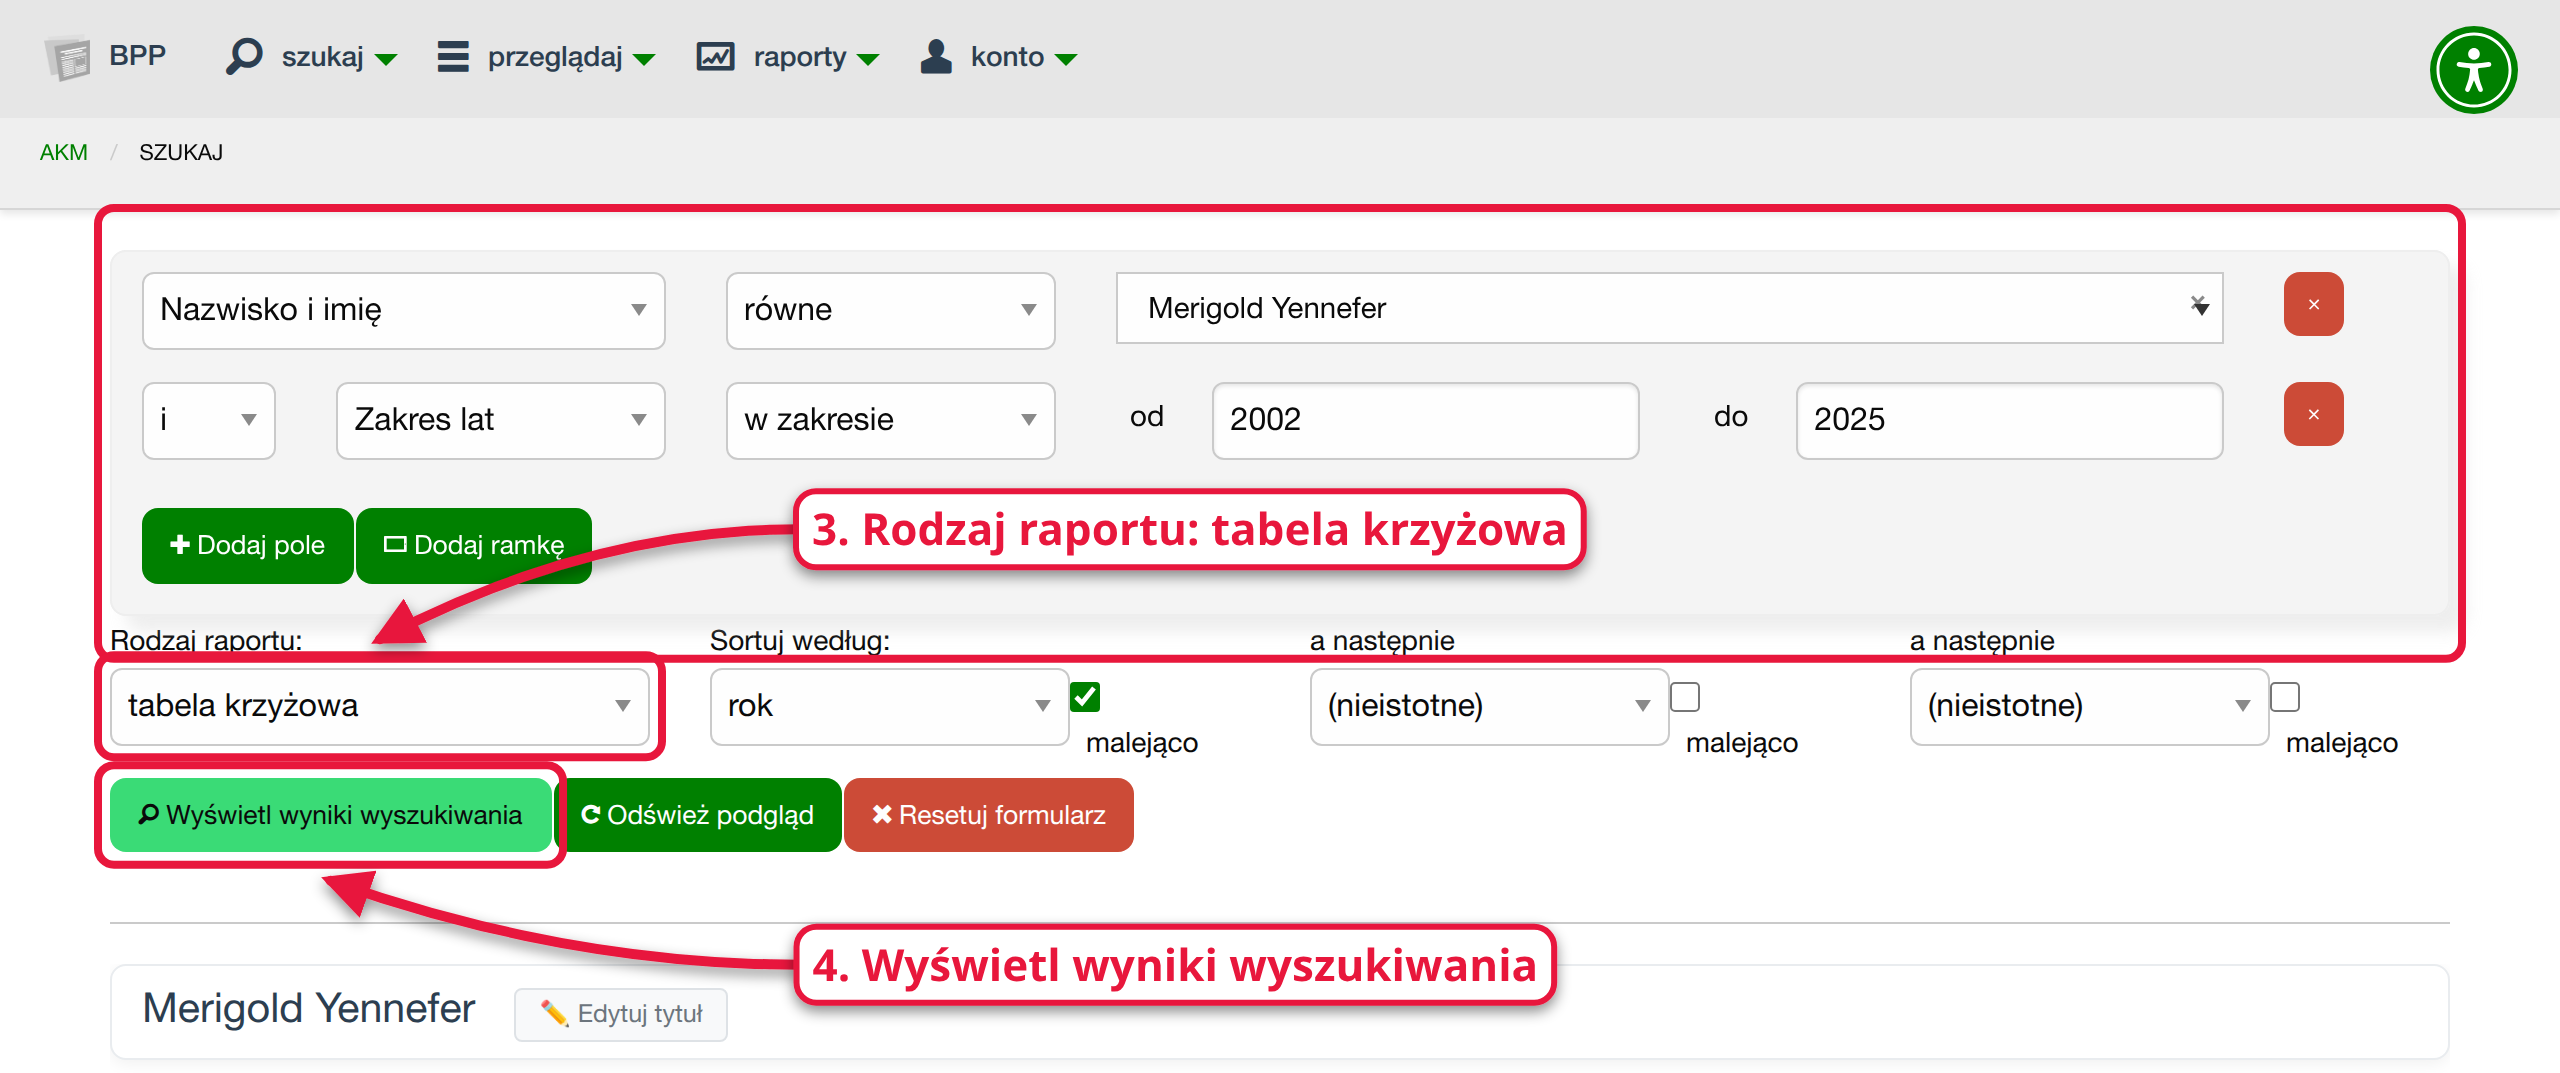
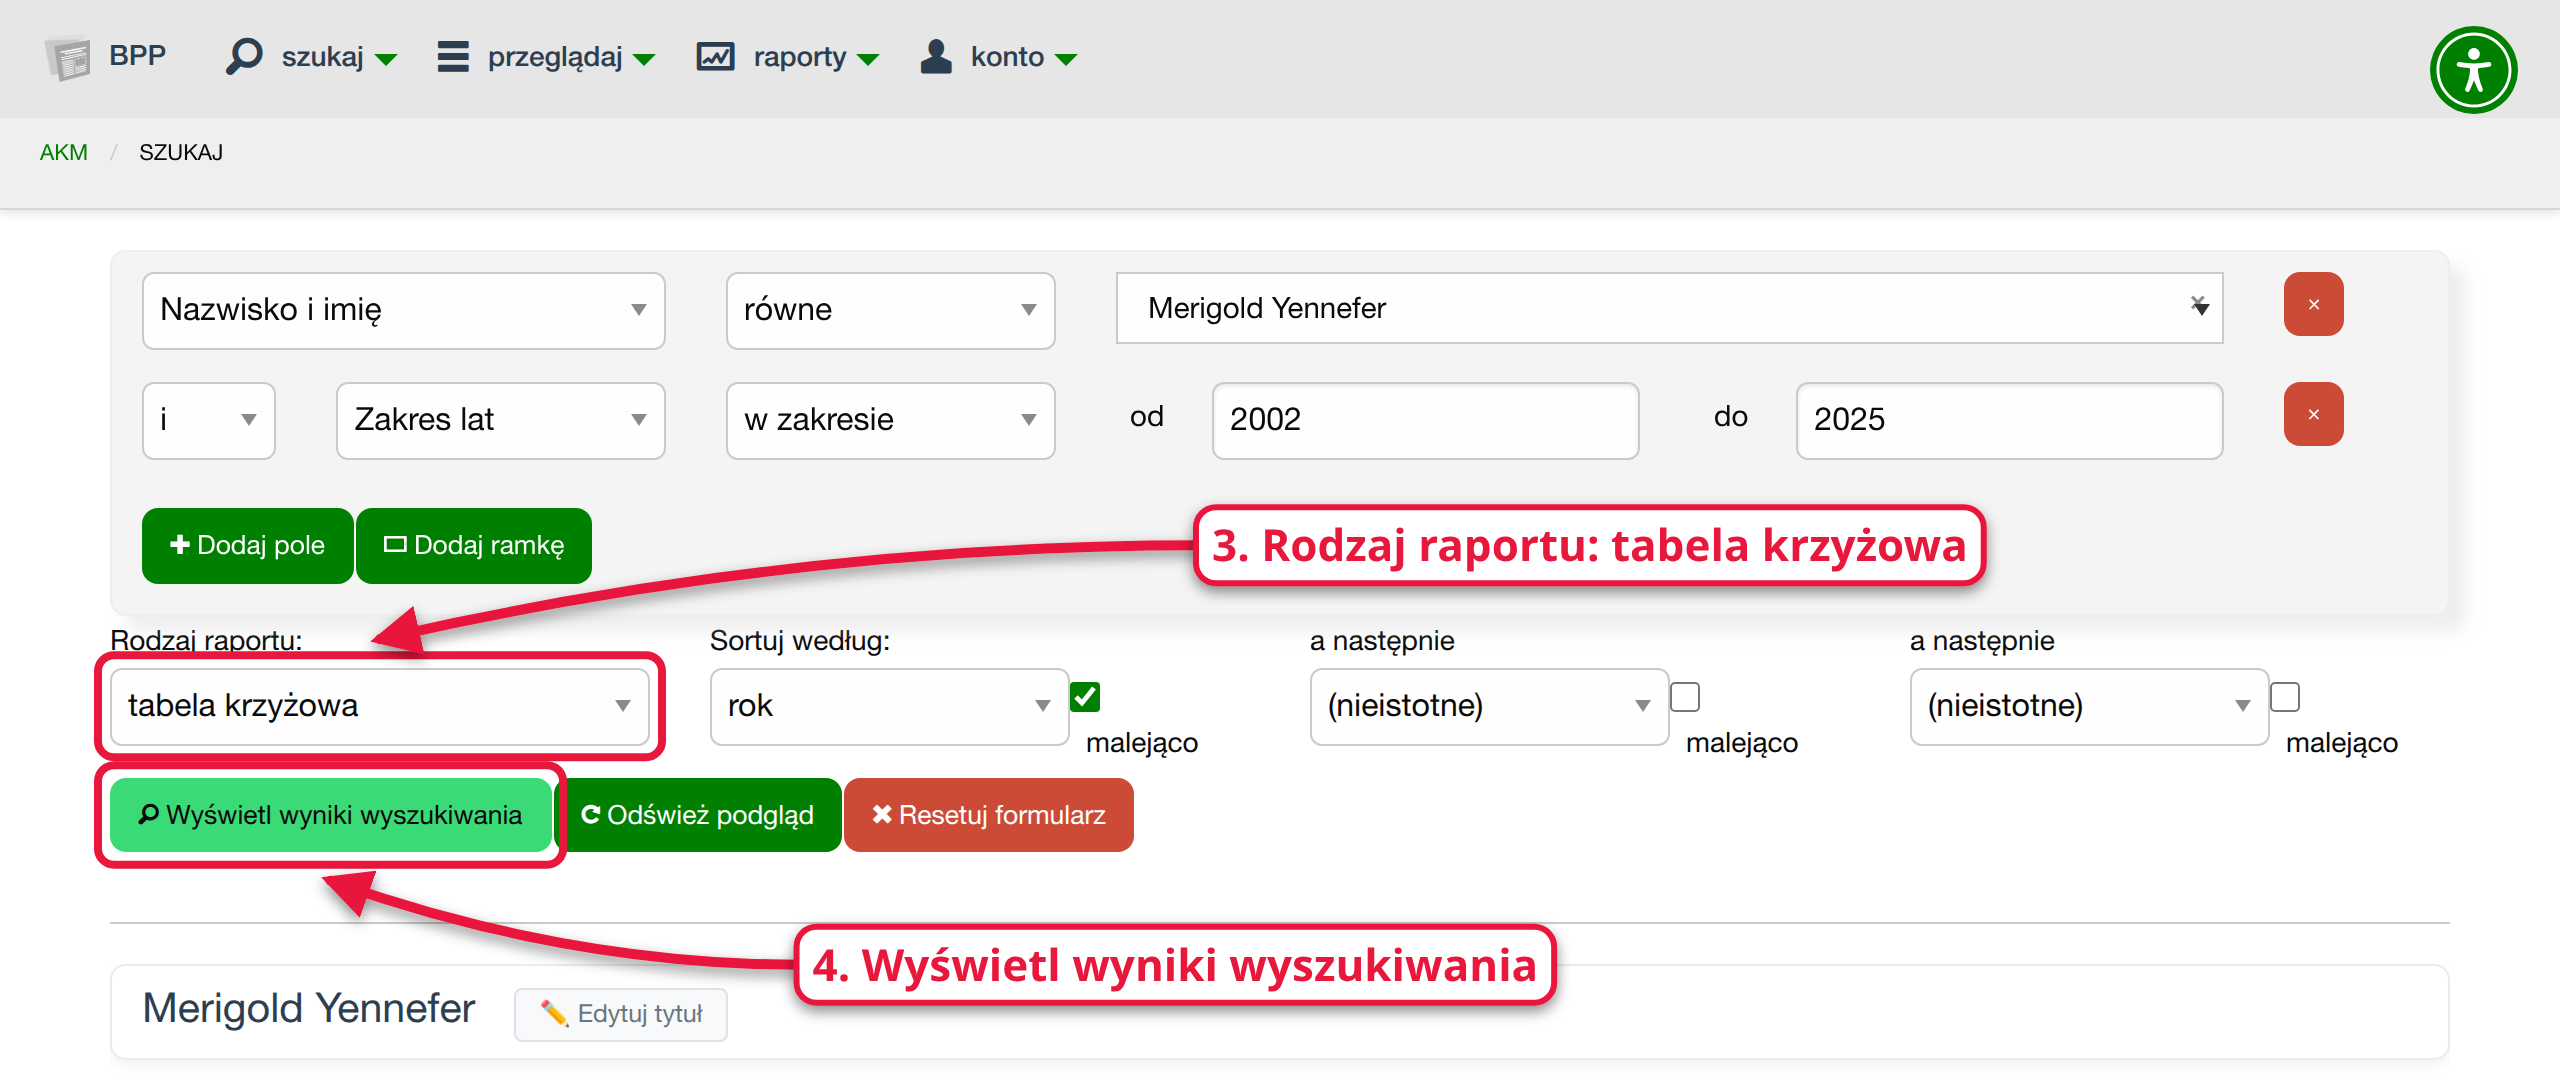
docs: fix annotations on two cross-table screenshots
04: mark the example cell with a box only, no arrow across the table
and the note. 02: drop the unlabelled box around the conditions and
route arrow 3 below the "Dodaj ramkę" button.

Changed region(s): [[0.1562, 0.4306, 0.9688, 0.6151], [0.0312, 0.1845, 0.9688, 0.2153], [0.0312, 0.5843, 0.0625, 0.6151]]

diff --git a/bin/docs-screenshots.py b/bin/docs-screenshots.py
@@ -6488,13 +6488,13 @@ def tabela_krzyzowa(page: Page, base: str, out: Path) -> None:
     mark(
         page,
         [
-            {"sel": "#frame-0"},
             {
+                # label right of "Dodaj ramkę", so the arrow passes below it
                 "sel": "#id_report_type",
                 "arrow": "above",
                 "label": "3. Rodzaj raportu: tabela krzyżowa",
-                "dx": 150,
-                "dy": 47,
+                "dx": 350,
+                "dy": 55,
             },
             {
                 "sel": "#multiseek-szukaj",
@@ -6559,12 +6559,12 @@ def tabela_krzyzowa(page: Page, base: str, out: Path) -> None:
     mark(
         page,
         [
+            # just a box: an arrow to an inner cell would cross the table
+            # (the page text explains the cell)
             {
-                "sel": "table.multiseek-pivot tbody tr:first-child td:not(.pivot-total)",
-                "arrow": "below",
-                "label": "punkty jednostki za artykuły",
-                "dx": -300,
-                "dy": 80,
+                "sel": (
+                    "table.multiseek-pivot tbody tr:first-child td:not(.pivot-total)"
+                )
             },
             {
                 "sel": "table.multiseek-pivot thead th.pivot-total",
@@ -6581,7 +6581,7 @@ def tabela_krzyzowa(page: Page, base: str, out: Path) -> None:
         ],
     )
     tabela = page_box(page, ".multiseek-pivot-scroll")
-    shot(page, out / "04-wynik-razem.png", tabela["y"] - 20, tabela["height"] + 210)
+    shot(page, out / "04-wynik-razem.png", tabela["y"] - 20, tabela["height"] + 110)
 
     # 5. export (logged-in users only)
     mark(

diff --git a/docs/uzytkownik/tabela-krzyzowa.md b/docs/uzytkownik/tabela-krzyzowa.md
@@ -76,8 +76,8 @@ Prace bez źródła, dyscypliny itp. trafiają do wiersza lub kolumny
 
 ![Tabela krzyżowa: punkty jednostek według charakteru formalnego, z wierszem i kolumną RAZEM](../images/uzytkownik/tabela-krzyzowa/04-wynik-razem.png)
 
-- Każda **komórka** to wartość dla przecięcia wiersza i kolumny — tu:
-  830 punktów za artykuły w czasopismach, które autorka opublikowała,
+- Każda **komórka** to wartość dla przecięcia wiersza i kolumny — tu
+  (zaznaczona na obrazku): 830 punktów za artykuły w czasopismach, które autorka opublikowała,
   pracując w Klinice Eliksirologii. Pusta komórka oznacza, że takich prac
   nie ma.
 - Kolumna **RAZEM** to suma wiersza — tu odpowiedź na pytanie: najwięcej
